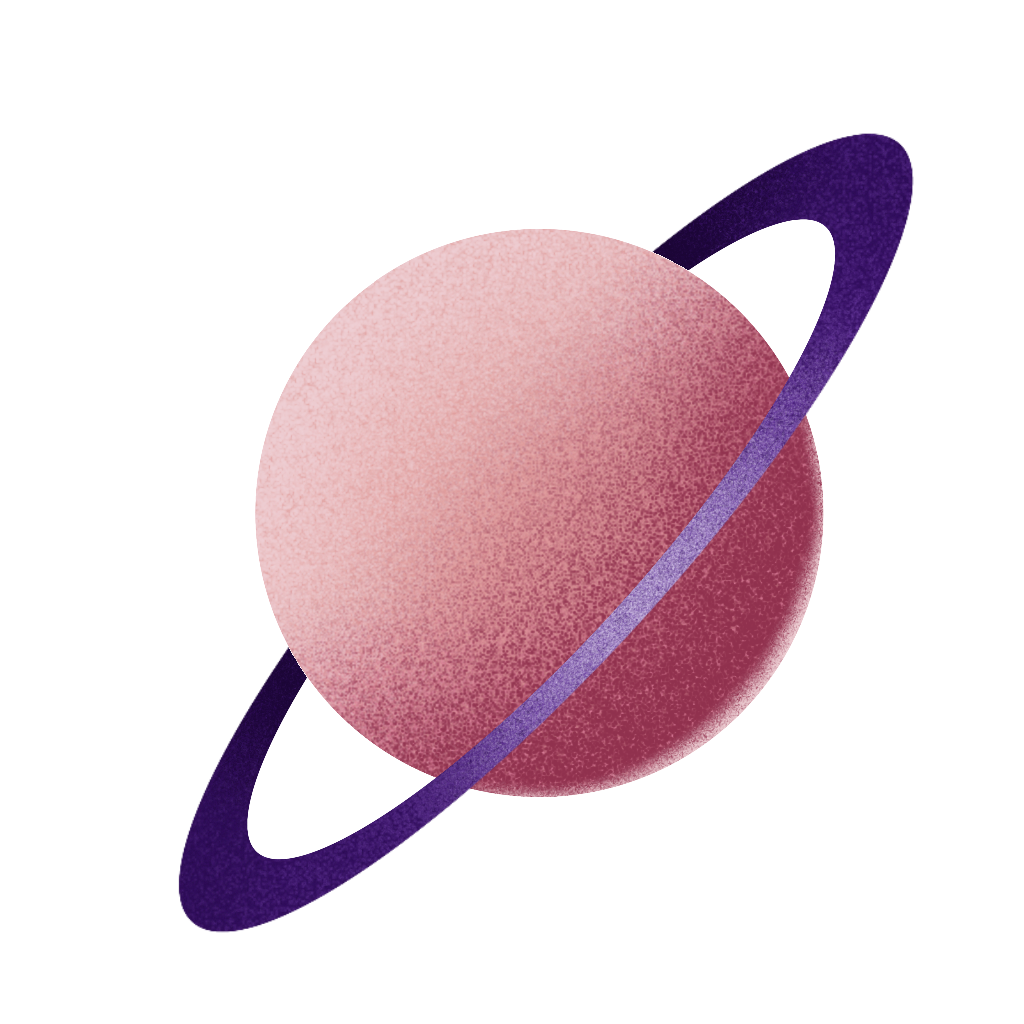
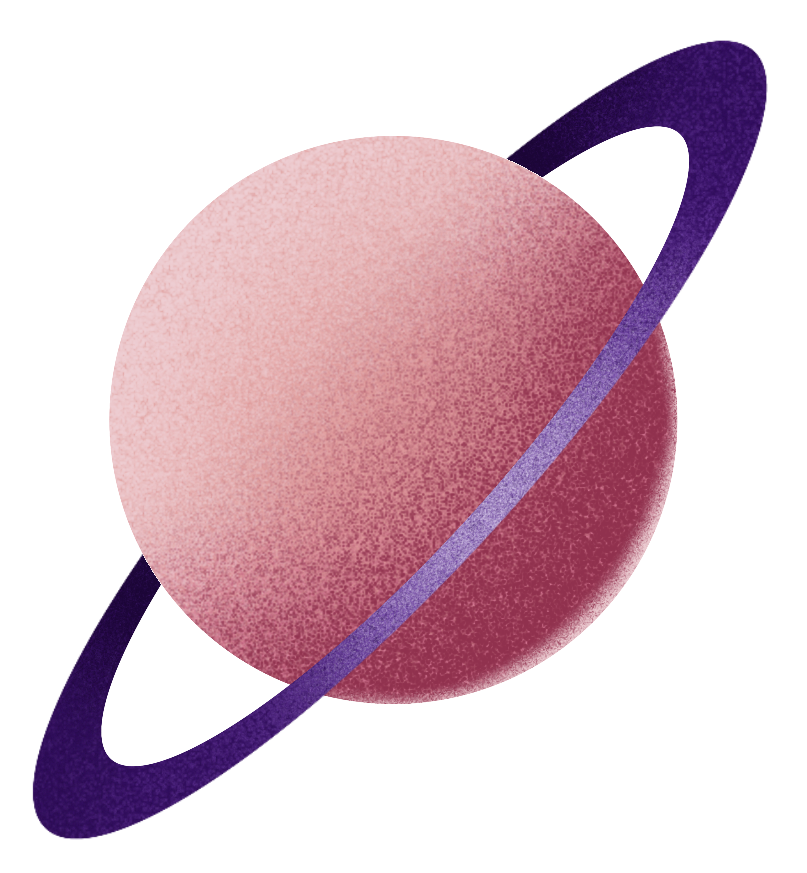
about mobile updated

Changed region(s): [[0.031, 0.0309, 0.9603, 0.9588]]

diff --git a/app/styles/about.css b/app/styles/about.css
@@ -210,6 +210,10 @@
     margin-top: 20px;
   }
 
+  #about-main {
+    height: 2000px;
+  }
+
   #main-content {
     margin-top: 60px;
     position: absolute;
@@ -218,6 +222,12 @@
   }
 
   #main-planet {
+    background-image: url(../images/about-planet.png);
+    background-size: contain;
+    background-repeat: no-repeat;
+    position: absolute;
+    height: 350x auto;
+    width: 100vw;
     margin-top: 400px;
   }
 
